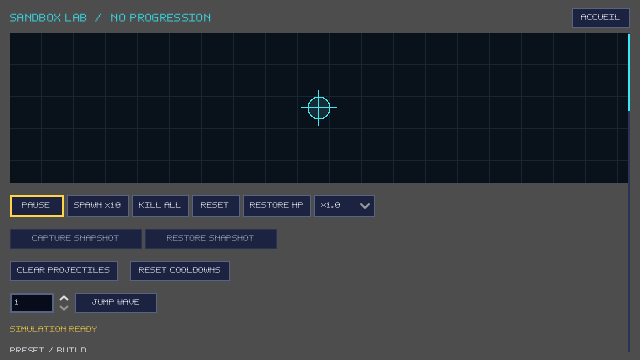
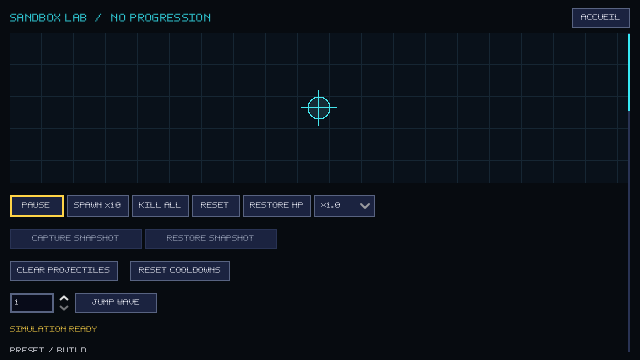
fix: apply Neon background to Sandbox Lab

diff --git a/docs/specs/CAPABILITY_MAP_ASSETS_UI_AUDIO.md b/docs/specs/CAPABILITY_MAP_ASSETS_UI_AUDIO.md
@@ -27,7 +27,7 @@ Les statuts suivants décrivent le dépôt; ils ne valident aucun choix de conte
 |---|---|---|
 | `asset-pipeline` | **EN COURS** | Snapshot initial conservé; registre courant 258 fichiers hors `.import`, dont 148 assets créatifs tracés. 107 exports graphiques hash-identiques ont été remplacés; zéro hash initial ne demeure, 417 entrées créatives sont migrées/retirées. Les 137 chemins actifs sont présents au PCK de contrôle. Le staging Release propre courant `714d35c` s’extrait et démarre avec sa GDExtension adjacente; il reste non distribuable. Restent la revue physique/UI exhaustive, l’écoute et le paquet distribuable après acceptation. |
 | `visual-assets` | **EN COURS** | Skyline, joueur, neuf rôles communs/supports, 24 projectiles, coffre/orbe XP, icônes UI/catalogue, sol/ruines, élite, prototypes boss génériques, VFX et deux fontes originales ont des sources éditables. Exports racine hérités et recettes par référence retirés après vérification des consommateurs. Les références actives sont présentes dans le PCK de contrôle; le staging Release `714d35c` se lance. Identités boss/biome restent ouvertes, revue complète écran par écran et GPU réelle restent à faire. |
-| `interface-overhaul` | **EN COURS** | Fondations, accueil, options, hub, vues Survival/Sandbox et parcours existants ont des smokes ciblés; captures des écrans principaux, états secondaires, choix initial, HUD boss/feedback, confirmation revive et détail Tab sont consignées. Le HUD boss est compact et sans chevauchement; le revive utilise un overlay Neon avec focus clavier. Le Sandbox Lab utilise une page défilante à 640×360 et sa session cachée n’expose ni HUD ni caméra au viewport global. L’utilisateur confirme la lisibilité hub/équipement à 640×360. La revue exhaustive des états/focus, les contrôles matériels et le choix final des fontes restent ouverts; l’isolation Sandbox est couverte avec profil temporaire isolé. |
+| `interface-overhaul` | **EN COURS** | Fondations, accueil, options, hub, vues Survival/Sandbox et parcours existants ont des smokes ciblés; captures des écrans principaux et états secondaires consignées. Le Sandbox Lab a un fond Neon uniforme, une page défilante à 640×360 et sa session cachée n’expose ni HUD, caméra ni service de progression au viewport global. L’utilisateur confirme la lisibilité hub/équipement à 640×360. La revue exhaustive des états/focus, les contrôles matériels et le choix final des fontes restent ouverts; l’isolation Sandbox est couverte avec profil temporaire isolé. |
 | `skill-tree` | **TRANCHE LIVRÉE — CAPACITÉ EN COURS** | Graphe navigable montrant 100 définitions runtime et leurs vrais prérequis; contenu, coûts et effets proposés ne sont pas validés. Commit `15a9071`. |
 | `equipment-screen` | **TRANCHE LIVRÉE — CAPACITÉ EN COURS** | Six slots, filtre, bonus avant/après et actions existantes conservées; états sans pièce compatible et échec réel d’action capturés. Overlay du personnage et formules proposées restent ouverts. Commit initial `5eadb12`; couverture d’état ajoutée dans la tranche courante. |
 | `adaptive-audio` | **EN COURS** | 38 SFX branchés sur 19 familles; cinq stems originaux synchronisés suivent les vagues et ajoutent le stem boss par fondu sans redémarrage. Capture numérique du bus Master en runtime ajoutée, sans écrêtage mesuré; extrait de transition aussi prêt pour écoute locale. Mix/gains **[PROPOSÉS]**; revue auditive humaine et en jeu **[OUVERTE]** faute de sortie locale. |

diff --git a/docs/art/evidence/2026-10-18/README.md b/docs/art/evidence/2026-10-18/README.md
@@ -18,7 +18,7 @@ Captures 640×360 générées avec Godot 4.7.2 sous Xvfb/Mesa llvmpipe. Les smok
[8 lines of base64/hex data omitted]

diff --git a/docs/qa/TESTS.md b/docs/qa/TESTS.md
@@ -2231,3 +2231,9 @@ Note de clôture : le blocage historique du smoke `sandbox_ui_smoke.gd` décrit 
 
 - [x] `PATH="$PWD/build/cmake-3.31.12-linux-x86_64/bin:$PATH" XDG_DATA_HOME=/tmp/dopamine-neon-ui-followup DOPAMINE_TEST_TIMEOUT=480s ctest --test-dir build --output-on-failure -j1` : **118/118 tests passent en 79,39 s** après le remplacement de la confirmation de vente système et l’ajustement des nœuds du skill tree.
 - [i] Le jalon couvre l’import, l’ensemble CTest et Sandbox; l’environnement reste Xvfb/Mesa llvmpipe avec audio Dummy. Il ne valide pas les périphériques, le GPU ni l’écoute humaine.
+
+## Fond du Sandbox Lab — 2026-10-18
+
+- [x] `ui_states_evidence_smoke.gd` régénère la capture du Lab; l’image 640×360 confirme le fond sombre uniforme au lieu du gris de fenêtre découvert pendant la revue.
+- [x] `godot_project_import`, `sandbox_preset_smoke`, `sandbox_lab_smoke` et `sandbox_lab_layout_smoke` passent par CTest (**4/4**), y compris isolation des services et bornes multi-résolution.
+- [x] Hash actualisé dans le README de preuves. L’inspection reste virtualisée; aucun contrôleur ou GPU matériel n’a été essayé.
